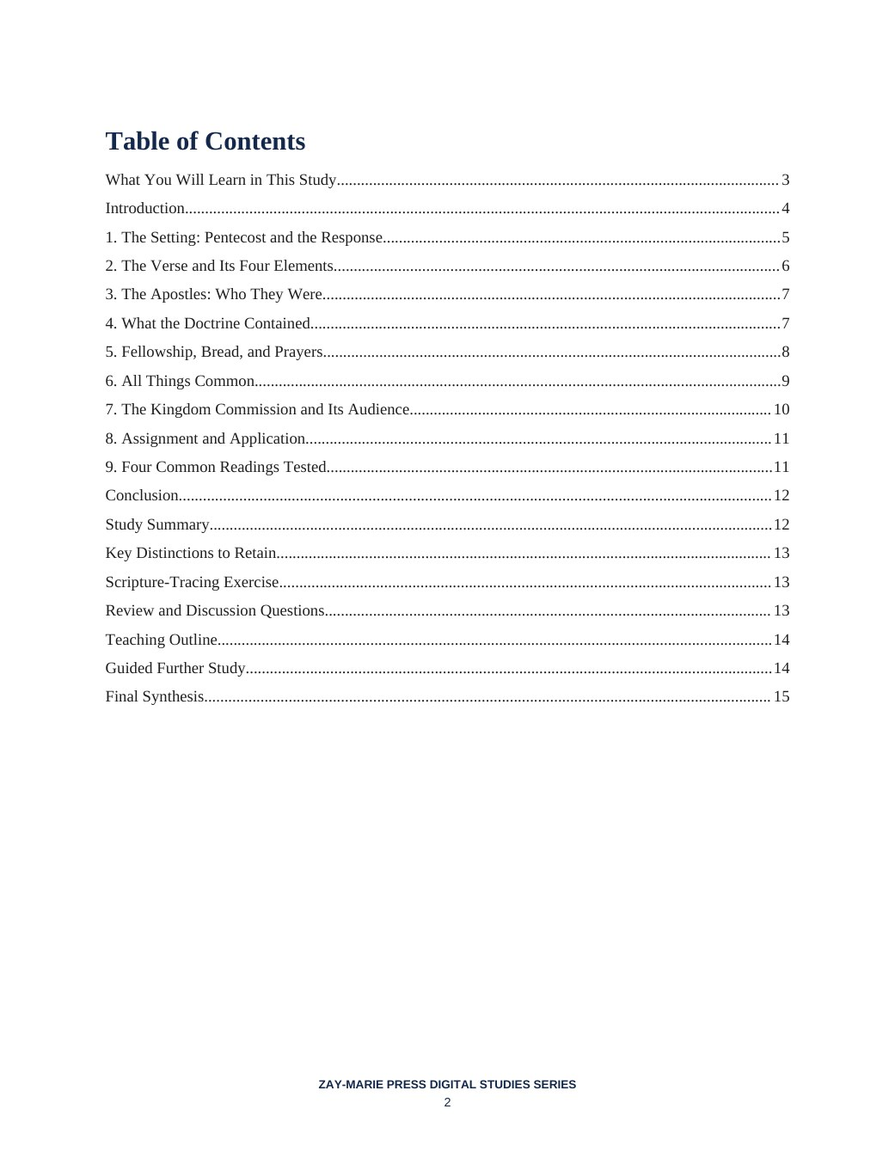
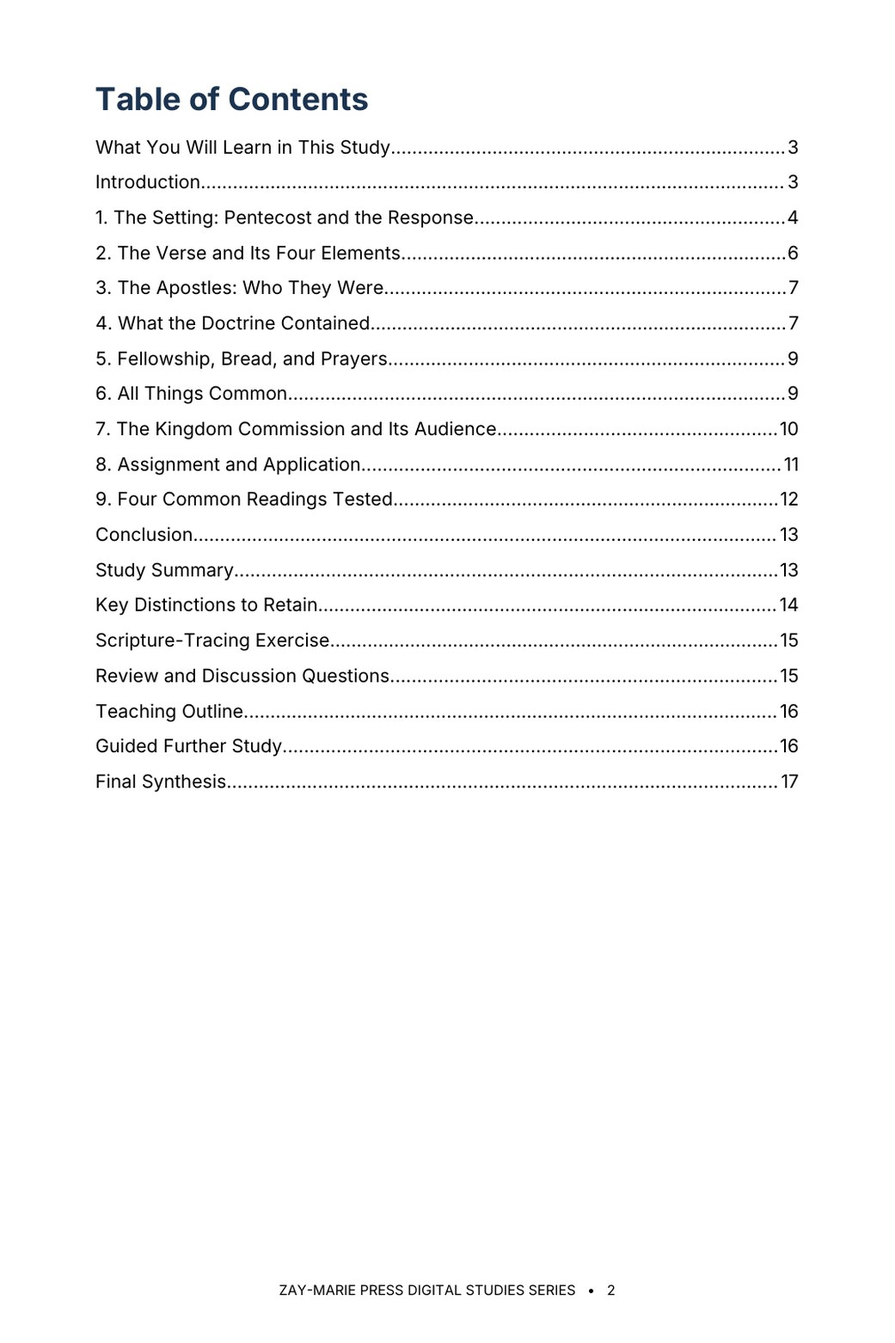
Study 65: rebuilt in Roboto at 10 pt, 17 pages; previews and trackers updated
Claude-Session: https://claude.ai/code/session_01HC7bs9KYP2scp4hCL6DkTp

Changed region(s): [[0.0922, 0.0624, 0.8915, 0.6236], [0.3074, 0.9354, 0.6455, 0.9666]]

diff --git a/study-65-acts-2-42.html b/study-65-acts-2-42.html
@@ -1,13 +1,13 @@
 <!doctype html>
-<html lang="en"><head><meta charset="utf-8"><meta name="viewport" content="width=device-width,initial-scale=1"><title>Acts 2:42 | Zay-Marie Press</title><meta name="description" content="Study 65 examines Acts 2:42 — what the Twelve taught at Jerusalem, what the converts continued in, and to whom the apostles’ doctrine belonged — and keeps it distinct from Paul’s doctrine for the Body. Preview the 16-page digital study."><link rel="stylesheet" href="styles.css?v=20260921-4"><link rel="icon" type="image/png" href="assets/zay-marie-press-favicon.png"><style>
+<html lang="en"><head><meta charset="utf-8"><meta name="viewport" content="width=device-width,initial-scale=1"><title>Acts 2:42 | Zay-Marie Press</title><meta name="description" content="Study 65 examines Acts 2:42 — what the Twelve taught at Jerusalem, what the converts continued in, and to whom the apostles’ doctrine belonged — and keeps it distinct from Paul’s doctrine for the Body. Preview the 17-page digital study."><link rel="stylesheet" href="styles.css?v=20260921-4"><link rel="icon" type="image/png" href="assets/zay-marie-press-favicon.png"><style>
 .study-detail-page{background:#fff;color:#252525}.detail-hero{background:linear-gradient(135deg,#f8f5ec,#e3ece2);padding:58px 0}.detail-hero-grid{display:grid;grid-template-columns:minmax(250px,.72fr) minmax(0,1.28fr);gap:58px;align-items:center}.detail-cover{max-width:390px;margin:auto}.detail-cover img{display:block;width:100%;height:auto;box-shadow:0 14px 36px rgba(8,45,69,.18)}.detail-hero h1{font-size:clamp(2.7rem,5vw,4.7rem);line-height:1.02;margin:8px 0 10px;color:#143823}.detail-subtitle{font-family:Georgia,serif;font-size:1.35rem;font-weight:700;color:#082d45;margin:0 0 7px}.detail-kicker{font-family:Georgia,serif;font-style:italic;font-size:1.05rem;color:#4a4a44;margin:0 0 22px}.detail-copy{font-size:1.08rem;line-height:1.65;max-width:760px}.detail-buyline{display:flex;align-items:center;gap:18px;flex-wrap:wrap;margin-top:25px}.detail-price{font-family:Georgia,serif;font-size:2rem;font-weight:700;color:#143823}.detail-format,.preview-card .page-no{font-family:Arial,sans-serif;font-size:.76rem;font-weight:700;letter-spacing:.1em;text-transform:uppercase;color:#176b3a}.detail-button{display:inline-block;background:#176b3a;color:#fff;padding:13px 22px;font-family:Arial,sans-serif;font-size:.8rem;font-weight:700;letter-spacing:.07em;text-transform:uppercase}.detail-button.pending{opacity:.72;cursor:default}.detail-section{padding:66px 0}.detail-section.soft{background:#f6f7f2}.detail-section.cream{background:#faf8f2}.detail-section h2{color:#143823;margin:6px 0 18px;font-size:clamp(2rem,3.4vw,3rem)}.detail-section .lead{max-width:920px;font-size:1.1rem;line-height:1.62}.study-distinction{max-width:920px;margin-top:28px;margin-bottom:28px;padding:26px 28px;background:#fff;border:1px solid #d8d1bf;border-left:4px solid #b8871c}.study-distinction h3{margin:0 0 10px;color:#143823}.study-distinction p{margin:0 0 14px;line-height:1.62}.study-distinction a{font-family:Arial,sans-serif;font-weight:700;color:#176b3a;text-decoration:none}.study-points{display:grid;grid-template-columns:repeat(3,1fr);gap:18px;margin-top:28px;margin-bottom:28px}.study-point,.scripture-card,.preview-card,.include-item{background:#fff;border:1px solid var(--line);text-align:left}.study-point{border-top:3px solid #176b3a;padding:22px}.study-point h3{color:#143823;margin:0 0 8px;font-size:1.2rem}.study-point p,.scripture-card p,.preview-card p,.include-item p{margin:0;line-height:1.55}.scripture-grid{display:grid;grid-template-columns:repeat(4,1fr);gap:14px;margin-top:24px;margin-bottom:24px}.scripture-card{padding:22px 20px;color:#143823}.scripture-card h3{margin:0 0 9px;font-family:Georgia,serif;font-size:1rem;line-height:1.35}.scripture-card p{font-size:.94rem;color:#45453f}.excerpt{max-width:900px;margin:28px auto;border-left:4px solid #b8871c;padding:10px 0 10px 28px}.excerpt blockquote{font-family:Georgia,serif;font-size:clamp(1.45rem,2.5vw,2rem);line-height:1.45;color:#143823;margin:0 0 16px}.excerpt p{line-height:1.6;margin:0}.preview-grid{display:grid;grid-template-columns:repeat(2,1fr);gap:20px;margin-top:28px;margin-bottom:28px}.preview-card{padding:18px;min-height:210px;box-shadow:0 7px 20px rgba(20,40,25,.05)}.preview-image-link{display:block;margin:0 0 18px}.preview-image-link img{display:block;width:100%;height:auto;border:1px solid #d8d1bf;box-shadow:0 8px 22px rgba(20,40,25,.1);transition:transform .18s ease,box-shadow .18s ease}.preview-image-link:hover img{transform:translateY(-2px);box-shadow:0 11px 28px rgba(20,40,25,.16)}.preview-card h3{color:#143823;margin:8px 0 10px}.preview-instruction{margin:10px 0 0;font-family:Arial,sans-serif;font-size:.78rem;letter-spacing:.04em;color:#5b5b55}.includes-grid{display:grid;grid-template-columns:repeat(4,1fr);gap:14px;margin-top:26px}.include-item{padding:22px 20px;color:#143823}.include-item h3{margin:0 0 9px;font-family:Arial,sans-serif;font-size:.86rem;line-height:1.35;letter-spacing:.02em}.include-item p{font-size:.94rem;color:#45453f}.final-buy{background:#082d45;color:#fff;border-top:4px solid #b8871c;padding:42px 48px;display:grid;grid-template-columns:1fr auto;gap:36px;align-items:center}.final-buy .eyebrow,.final-buy h2,.final-buy .detail-price{color:#fff}.final-buy h2{margin:7px 0 6px}.final-buy p{margin:0}.final-offer{text-align:center}.back-link{display:inline-block;margin-top:18px;color:#143823;font-family:Arial,sans-serif;font-weight:700;text-decoration:none}.preview-lightbox{position:fixed;inset:0;z-index:10000;display:none;align-items:flex-start;justify-content:center;background:rgba(8,22,16,.88);padding:24px;overflow:auto}.preview-lightbox.open{display:flex}.preview-lightbox img{display:block;width:auto;height:auto;max-width:none;box-shadow:0 18px 55px rgba(0,0,0,.4);background:#fff}.preview-lightbox-close{position:fixed;top:18px;right:24px;z-index:10001;width:46px;height:46px;border:1px solid rgba(255,255,255,.65);border-radius:50%;background:rgba(0,0,0,.55);color:#fff;font:32px/1 Arial,sans-serif;cursor:pointer}@media(max-width:900px){.detail-hero-grid{grid-template-columns:1fr;gap:34px}.detail-cover{max-width:330px}.study-points{grid-template-columns:repeat(2,1fr)}.scripture-grid,.includes-grid{grid-template-columns:repeat(2,1fr)}.preview-grid,.final-buy{grid-template-columns:1fr}.final-offer{text-align:left}}@media(max-width:560px){.detail-hero{padding:42px 0}.detail-section{padding:50px 0}.study-points,.scripture-grid,.includes-grid{grid-template-columns:1fr}.final-buy{padding:32px 24px}.detail-buyline{align-items:flex-start;flex-direction:column;gap:8px}.preview-lightbox{padding:58px 10px 24px}.preview-lightbox img{width:100%;max-width:100%;height:auto}} .detail-hero h1{font-size:clamp(2.1rem,4.2vw,3.7rem);line-height:1.08}</style></head><body class="study-detail-page">
-<header class="site-header"><div class="wrap nav"><a class="logo" href="index.html" aria-label="Zay-Marie Press home"><img src="assets/zay-marie-press-logo-hq.png" alt="Zay-Marie Press" width="420" height="238"></a><button class="menu-toggle" type="button" aria-expanded="false" aria-controls="primary-nav">MENU</button><nav aria-label="Primary navigation" class="primary-nav" id="primary-nav"><a href="index.html">HOME</a><a href="books.html">BOOKS</a><a href="series.html">SERIES</a><a class="active" aria-current="page" href="digital-studies.html">DIGITAL STUDIES</a><a href="biblical-hermeneutics-course.html">COURSE</a><a href="about.html">ABOUT</a><a href="resources.html">RESOURCES</a><a href="contact.html">CONTACT</a></nav></div></header><main><section class="detail-hero"><div class="wrap detail-hero-grid"><div class="detail-cover"><picture><source srcset="assets/study-65-cover.webp" type="image/webp"><img src="assets/study-65-cover.jpg" alt="Acts 2:42 cover"></picture></div><div><div class="eyebrow">STUDY 65 · DIGITAL STUDY</div><h1>Acts 2:42</h1><p class="detail-subtitle">The Apostles’ Doctrine</p><p class="detail-kicker">What did the Twelve teach at Jerusalem — and to whom did that teaching belong?</p><p class="detail-copy">Acts 2:42 is quoted as a list of four essentials: doctrine, fellowship, the breaking of bread, and prayer. Yet the verse is a sentence in a narrative, reporting what particular people did in a particular city immediately after a particular sermon.</p><p class="detail-copy">This study begins where Luke does: with the commission of Acts 1:8, Peter’s sermon to “all the house of Israel,” and the response. It weighs the four elements of the verse, traces what the apostles actually taught in Acts 2–5, tests the sharing of possessions against Acts 5:4, and only then asks where Paul’s doctrine for the Body stands, holding to one order throughout: meaning first, assignment second, application third.</p><div class="detail-buyline"><span class="detail-price">$5.99</span><span class="detail-format">Digital PDF · 16 Pages</span><span class="detail-button pending" aria-disabled="true">Checkout Coming Soon</span></div></div></div></section>
+<header class="site-header"><div class="wrap nav"><a class="logo" href="index.html" aria-label="Zay-Marie Press home"><img src="assets/zay-marie-press-logo-hq.png" alt="Zay-Marie Press" width="420" height="238"></a><button class="menu-toggle" type="button" aria-expanded="false" aria-controls="primary-nav">MENU</button><nav aria-label="Primary navigation" class="primary-nav" id="primary-nav"><a href="index.html">HOME</a><a href="books.html">BOOKS</a><a href="series.html">SERIES</a><a class="active" aria-current="page" href="digital-studies.html">DIGITAL STUDIES</a><a href="biblical-hermeneutics-course.html">COURSE</a><a href="about.html">ABOUT</a><a href="resources.html">RESOURCES</a><a href="contact.html">CONTACT</a></nav></div></header><main><section class="detail-hero"><div class="wrap detail-hero-grid"><div class="detail-cover"><picture><source srcset="assets/study-65-cover.webp" type="image/webp"><img src="assets/study-65-cover.jpg" alt="Acts 2:42 cover"></picture></div><div><div class="eyebrow">STUDY 65 · DIGITAL STUDY</div><h1>Acts 2:42</h1><p class="detail-subtitle">The Apostles’ Doctrine</p><p class="detail-kicker">What did the Twelve teach at Jerusalem — and to whom did that teaching belong?</p><p class="detail-copy">Acts 2:42 is quoted as a list of four essentials: doctrine, fellowship, the breaking of bread, and prayer. Yet the verse is a sentence in a narrative, reporting what particular people did in a particular city immediately after a particular sermon.</p><p class="detail-copy">This study begins where Luke does: with the commission of Acts 1:8, Peter’s sermon to “all the house of Israel,” and the response. It weighs the four elements of the verse, traces what the apostles actually taught in Acts 2–5, tests the sharing of possessions against Acts 5:4, and only then asks where Paul’s doctrine for the Body stands, holding to one order throughout: meaning first, assignment second, application third.</p><div class="detail-buyline"><span class="detail-price">$5.99</span><span class="detail-format">Digital PDF · 17 Pages</span><span class="detail-button pending" aria-disabled="true">Checkout Coming Soon</span></div></div></div></section>
 <section class="detail-section"><div class="wrap"><div class="eyebrow">ABOUT THIS STUDY</div><h2>Read the Verse in Order: Meaning, Assignment, Application</h2><p class="lead">You will read Acts 2:42 as Luke wrote it: after a commission to Israel, a sermon to “all the house of Israel,” and a response of about three thousand. You will weigh the four things the converts continued in, follow the word “doctrine” to Acts 5:28, and trace what the apostles’ recorded teaching in Acts 2–5 contained. You will test the sharing of possessions against the narrative’s own statements, then set the Twelve’s doctrine beside Paul’s before drawing any application.</p><p class="lead">Readers who already own Study 20 (Understanding Acts 2:38), Study 38 (Why Acts Is Not a Universal Experience Manual), or Study 18 (Peter and Paul: Distinct Apostolic Commissions) will recognize adjoining ground. Study 20 interprets Peter’s appeal and the baptism he commanded; this study begins after that appeal, with what the converts did next. Study 38 sets out the method for deciding when an Acts event becomes a rule; this study applies a method of that kind to a single verse and does not re-derive it. Study 18 compares the two commissions across the whole book; this study asks the narrower question of what the Twelve’s teaching consisted of. The question this study alone answers: what was “the apostles’ doctrine” of Acts 2:42, and to whom did it belong?</p>
 <div class="study-distinction"><h3>How These Studies Relate</h3><p>Study 65 reads one verse from Acts. The studies below supply the neighboring ground it deliberately does not repeat.</p><p><a href="study-20-understanding-acts-2-38.html">Study 20 — Understanding Acts 2:38</a> Read Peter’s appeal and baptism to Israel in its setting; Study 65 begins with what the converts did after that appeal.</p><p><a href="study-18-peter-and-paul-distinct-apostolic-commissions.html">Study 18 — Peter and Paul: Distinct Apostolic Commissions</a> Compare the two commissions across the book; Study 65 asks what the Twelve’s teaching contained.</p><p><a href="study-38-why-acts-is-not-a-universal-experience-manual.html">Study 38 — Why Acts Is Not a Universal Experience Manual</a> Use the wider test for when an Acts event becomes a present obligation; Study 65 applies a method of that kind to one verse.</p><p class="connection-guide-link"><a href="study-connections.html#study-65">Explore the full connection guide for Study 65 →</a></p></div>
 <div class="eyebrow">WHAT YOU’LL STUDY</div><h2>Trace the Verse Before You Conclude</h2><div class="study-points"><div class="study-point"><h3>The Setting of the Verse</h3><p>Read Acts 2:42 in its own setting by tracing the audience, the message, and the response recorded in Acts 1:8 and 2:1–41 before interpreting a single phrase of the verse.</p></div><div class="study-point"><h3>Four Things Continued In</h3><p>Weigh the four things the believers “continued steadfastly” in by following the key words — <em>didachē</em>, <em>koinōnia</em>, the breaking of bread, and the prayers — through their other uses in Acts.</p></div><div class="study-point"><h3>What the Doctrine Contained</h3><p>Trace what “the apostles’ doctrine” contained by following the apostles’ own recorded teaching in Acts 2–5, including the word “doctrine” in Acts 5:28.</p></div><div class="study-point"><h3>To Whom It Was Addressed</h3><p>Follow the audiences named across Acts 1:8, 2:5, 2:14, 2:36, and 3:25 to see to whom the teaching was addressed and under what commission.</p></div><div class="study-point"><h3>All Things Common</h3><p>Test the sharing of possessions in Acts 2:44–45, 4:32–37, and 5:1–11 against what the narrative says was required and what it says was voluntary.</p></div><div class="study-point"><h3>Testing Four Readings</h3><p>Apply a repeatable discipline for testing four common readings of the verse, and for receiving Scripture’s report of the Jerusalem church without transferring its assignment.</p></div></div>
 <div class="eyebrow">KEY SCRIPTURES</div><h2>Read the Word in Its Context</h2><div class="scripture-grid"><div class="scripture-card"><h3>Acts 1:6–8</h3><p>The Kingdom question and the commission that begins at Jerusalem.</p></div><div class="scripture-card"><h3>Acts 2:14–41</h3><p>Peter’s sermon to Judaea, Jerusalem, and Israel, and the response of the hearers.</p></div><div class="scripture-card"><h3>Acts 2:42–47</h3><p>The converts’ steadfast continuing, the signs, and the daily life at the temple and in houses.</p></div><div class="scripture-card"><h3>Acts 3:19–26</h3><p>Peter’s appeal at the temple and the covenant made with the fathers.</p></div><div class="scripture-card"><h3>Acts 4:32–5:11</h3><p>The sharing of possessions, Barnabas, and Peter’s word about the property.</p></div><div class="scripture-card"><h3>Acts 5:26–32</h3><p>The council’s charge of filling Jerusalem with the apostles’ doctrine, and the apostles’ answer.</p></div><div class="scripture-card"><h3>Galatians 2:7–9</h3><p>Paul’s account of the gospel of the circumcision and the gospel of the uncircumcision.</p></div><div class="scripture-card"><h3>Ephesians 3:1–9</h3><p>Paul’s stewardship of the mystery, revealed to him.</p></div></div>
 <div class="eyebrow">FROM THE STUDY</div><h2>Narrative, Not Mandate</h2><div class="excerpt"><blockquote>A verb in the past tense reports what people did.</blockquote><p>It becomes an obligation for another group only when Scripture itself assigns it to that group. The verse is read as a report first.</p></div>
 <div class="eyebrow">A LOOK INSIDE</div><h2>Preview the Study Before You Purchase</h2><p class="preview-instruction">Click any page to enlarge it for reading.</p><div class="preview-grid"><div class="preview-card"><a class="preview-image-link" data-preview-lightbox href="assets/study-65-page-2.jpg"><img src="assets/study-65-page-2.jpg" alt="Study 65 table of contents"></a><div class="page-no">Interior Page 2</div><h3>Table of Contents</h3><p>See the full structure and the passages examined.</p></div><div class="preview-card"><a class="preview-image-link" data-preview-lightbox href="assets/study-65-page-3.jpg"><img src="assets/study-65-page-3.jpg" alt="Study 65 learning outcomes"></a><div class="page-no">Interior Page 3</div><h3>What You Will Learn</h3><p>See the study’s scope and reading procedure.</p></div><div class="preview-card"><a class="preview-image-link" data-preview-lightbox href="assets/study-65-page-5.jpg"><img src="assets/study-65-page-5.jpg" alt="Study 65 the setting of Pentecost"></a><div class="page-no">Interior Page 5</div><h3>The Setting: Pentecost and the Response</h3><p>Read the commission, the audience, and the response before the verse itself.</p></div></div>
-<div class="eyebrow">WHAT’S INCLUDED</div><h2>A Focused Study of Acts 2:42</h2><div class="includes-grid"><div class="include-item"><h3>16-Page Digital PDF</h3><p>Approved cover and 15-page numbered interior.</p></div><div class="include-item"><h3>9 Teaching Sections</h3><p>A text-driven study from the setting of Pentecost to careful application.</p></div><div class="include-item"><h3>Callout Boxes</h3><p>Five callout boxes marking the study’s key working rules.</p></div><div class="include-item"><h3>Comparison Tables</h3><p>Setting markers, the four elements of the verse, the apostles’ recorded teaching, and four common readings.</p></div><div class="include-item"><h3>Scripture-Tracing Exercise</h3><p>Six guided traces through the passages the study relies on.</p></div><div class="include-item"><h3>Guided Further Study</h3><p>Five passage groups for deeper reading.</p></div><div class="include-item"><h3>Review Questions</h3><p>Eleven questions testing the study’s markers and method.</p></div><div class="include-item"><h3>Final Synthesis Exercise</h3><p>A written synthesis drawing the whole study together.</p></div></div>
-<div class="final-buy"><div><div class="eyebrow">STUDY 65 · DIGITAL STUDY</div><h2>Acts 2:42</h2><p>16-page digital PDF · For personal use</p></div><div class="final-offer"><div class="detail-price">$5.99</div><span class="detail-button pending" aria-disabled="true">Checkout Coming Soon</span></div></div><a class="back-link" href="digital-studies.html">← Back to All Digital Studies</a></div></section>
+<div class="eyebrow">WHAT’S INCLUDED</div><h2>A Focused Study of Acts 2:42</h2><div class="includes-grid"><div class="include-item"><h3>17-Page Digital PDF</h3><p>Approved cover and 16-page numbered interior.</p></div><div class="include-item"><h3>9 Teaching Sections</h3><p>A text-driven study from the setting of Pentecost to careful application.</p></div><div class="include-item"><h3>Callout Boxes</h3><p>Five callout boxes marking the study’s key working rules.</p></div><div class="include-item"><h3>Comparison Tables</h3><p>Setting markers, the four elements of the verse, the apostles’ recorded teaching, and four common readings.</p></div><div class="include-item"><h3>Scripture-Tracing Exercise</h3><p>Six guided traces through the passages the study relies on.</p></div><div class="include-item"><h3>Guided Further Study</h3><p>Five passage groups for deeper reading.</p></div><div class="include-item"><h3>Review Questions</h3><p>Eleven questions testing the study’s markers and method.</p></div><div class="include-item"><h3>Final Synthesis Exercise</h3><p>A written synthesis drawing the whole study together.</p></div></div>
+<div class="final-buy"><div><div class="eyebrow">STUDY 65 · DIGITAL STUDY</div><h2>Acts 2:42</h2><p>17-page digital PDF · For personal use</p></div><div class="final-offer"><div class="detail-price">$5.99</div><span class="detail-button pending" aria-disabled="true">Checkout Coming Soon</span></div></div><a class="back-link" href="digital-studies.html">← Back to All Digital Studies</a></div></section>
 </main><div class="preview-lightbox" id="preview-lightbox" role="dialog" aria-modal="true" aria-label="Expanded study preview"><button class="preview-lightbox-close" type="button" aria-label="Close preview">×</button><img id="preview-lightbox-image" alt=""></div><footer class="site-footer"><div class="wrap footer-grid"><div class="footer-about"><h3>Zay-Marie Press</h3><p class="footer-tagline"><em>Where the Bible Means What It Says.</em></p><p>Zay-Marie Press is a Christian theological publisher dedicated to producing doctrinally precise, carefully structured biblical resources that equip pastors, teachers, and serious students with clarity, depth, and Scripture-anchored truth.</p><p><a href="https://zaymariepress.com">zaymariepress.com</a><br><a href="mailto:info@zaymariepress.com">info@zaymariepress.com</a></p></div><div class="footer-column"><h3>Explore</h3><div class="footer-links-stacked"><a href="books.html">Books</a><br><a href="series.html">Series</a><br><a href="biblical-hermeneutics-course.html">Course</a><br><a href="digital-studies.html">Digital Studies</a><br><a href="resources.html">Resources</a><br><a href="bible-book-summaries.html">Bible Book Summaries</a><br><a href="doctrinal-packets.html">Doctrinal Packets</a><br><a href="historical-drift.html">Historical Drift</a><br><a href="about.html">About</a><br><a href="contact.html">Contact</a></div></div><div class="footer-column"><h3>Reader Support</h3><div class="footer-links-stacked"><a href="reader-support.html#faq">FAQ</a><br><a href="reader-support.html#shipping-returns">Shipping &amp; Returns</a><br><a href="reader-support.html#digital-downloads">Digital Downloads</a><br><a href="reader-support.html#contact-support">Contact Support</a></div></div><div class="footer-column"><h3>Acts Overlap</h3><p><strong>Acts Overlap Theology Series</strong></p><p><em>Two Distinct Streams. One Overlap.</em></p><p><a href="series.html">Series Overview</a></p></div></div><div class="wrap footer-bottom">© 2026 Zay-Marie Press. All rights reserved.</div></footer><script src="site.js"></script><script>const lightbox=document.getElementById('preview-lightbox'),lightboxImage=document.getElementById('preview-lightbox-image'),closeLightbox=()=>{lightbox.classList.remove('open');lightboxImage.src='';};document.querySelectorAll('[data-preview-lightbox]').forEach(link=>link.addEventListener('click',event=>{event.preventDefault();lightboxImage.src=link.href;lightboxImage.alt=link.querySelector('img').alt;lightbox.classList.add('open');}));document.querySelector('.preview-lightbox-close').addEventListener('click',closeLightbox);lightbox.addEventListener('click',event=>{if(event.target===lightbox)closeLightbox();});document.addEventListener('keydown',event=>{if(event.key==='Escape')closeLightbox();});</script></body></html>

diff --git a/site.js b/site.js
@@ -62,7 +62,7 @@ const resourceModal=document.querySelector('#resource-modal'), resourceModalTitl
 if(resourceModal&&resourceModalTriggers.length){const closeResourceModal=()=>{resourceModal.hidden=true;document.body.classList.remove('resource-modal-open');lastResourceTrigger?.focus();};resourceModalTriggers.forEach(trigger=>trigger.addEventListener('click',()=>{lastResourceTrigger=trigger;if(resourceModalTitle)resourceModalTitle.textContent=trigger.dataset.title||'Resource';if(resourceModalDescription)resourceModalDescription.textContent=trigger.dataset.description||'';if(resourceModalLink){resourceModalLink.href=trigger.dataset.href||'#';resourceModalLink.textContent=trigger.dataset.linkText||'OPEN RESOURCE';}resourceModal.hidden=false;document.body.classList.add('resource-modal-open');resourceModalClose?.focus();}));resourceModalClose?.addEventListener('click',closeResourceModal);resourceModal.addEventListener('click',e=>{if(e.target===resourceModal)closeResourceModal();});document.addEventListener('keydown',e=>{if(e.key==='Escape'&&!resourceModal.hidden)closeResourceModal();});}
 
 /* Display the verified final-PDF page count at the primary purchase decision point. */
-const digitalStudyPageCounts={1:17,2:19,3:16,4:18,5:16,6:16,7:14,8:13,9:16,10:20,11:15,12:15,13:19,14:15,15:15,16:16,17:18,18:18,19:16,20:16,21:17,22:16,23:14,24:16,25:17,26:16,27:16,28:16,29:19,30:17,31:18,32:19,33:18,34:16,35:16,36:16,37:16,38:16,39:16,40:16,41:16,42:17,43:17,44:19,45:19,46:20,47:19,48:18,49:20,50:19,51:20,52:19,53:19,54:17,55:20,56:20,57:20,58:19,59:20,60:15,61:16,62:18,63:17,64:17,65:16,66:16,67:16,68:16,69:16,70:16,71:16};
+const digitalStudyPageCounts={1:17,2:19,3:16,4:18,5:16,6:16,7:14,8:13,9:16,10:20,11:15,12:15,13:19,14:15,15:15,16:16,17:18,18:18,19:16,20:16,21:17,22:16,23:14,24:16,25:17,26:16,27:16,28:16,29:19,30:17,31:18,32:19,33:18,34:16,35:16,36:16,37:16,38:16,39:16,40:16,41:16,42:17,43:17,44:19,45:19,46:20,47:19,48:18,49:20,50:19,51:20,52:19,53:19,54:17,55:20,56:20,57:20,58:19,59:20,60:15,61:16,62:18,63:17,64:17,65:17,66:16,67:16,68:16,69:16,70:16,71:16};
 const digitalStudyMatch=window.location.pathname.match(/\/study-(\d+)-/i);
 const digitalStudyFormat=document.querySelector('.detail-hero .detail-format');
 if(digitalStudyMatch&&digitalStudyFormat){const studyNumber=Number(digitalStudyMatch[1]),pageCount=digitalStudyPageCounts[studyNumber];if(pageCount)digitalStudyFormat.textContent=`Digital PDF · ${pageCount} Pages`;}

diff --git a/CLAUDE.md b/CLAUDE.md
@@ -23,7 +23,7 @@ These are kept in the repo at `controlling-documents/` and are the current versi
 - As of v1.50 (publisher directive, 2026-10-03), the **What You Will Learn in This Study** section is always bulleted, never set as running paragraphs, written into this file in the same pass (Master Standard Section 3 item 4, Section 6 structure line, Section 22): a list of bullet points, each describing one process, textual marker or interpretive discipline the reader will practice (Section 17 still governs what they may say); at most one short lead-in line may stand above the bullets (for example, “By the end of this study, you should be able to:”); the Study Goal callout and the Study Outline keep their own forms. It governs every new study and every study rebuilt or retrofitted from now on; earlier studies take it when reopened or when the publisher directs. In every study check (Step 1), report whether the section is bulleted. First applied to Study 43.
 **`controlling-documents/Digital_Studies_Relationship_Map_v1.39.md`** — records each study's distinct subject, its related studies, the eight priced six-study collections, the Paul's Missionary Journeys cross-reference map, and the five primary catalog categories (currently version 1.39, covers Studies 1–71; update it as new studies publish, bump the version number, rename the file to match, and log the change in its own version-history table — mirroring the Master Standard's `_vX.Y` filename convention). Check a proposed topic against it before recommending or writing a new study. (2026-09-28: the file was missing from this repo despite this note referencing it; replaced from the publisher's copy and bumped v1.15→v1.25 in the same pass. If this note ever again points to a version not present under `controlling-documents/`, ask the publisher for a copy rather than proceeding without the check.)
 - **`controlling-documents/Digital_Studies_Category_Standard_v1.1.md`** — FINAL and binding (publisher, 2026-10-01): the rules for the five primary catalog categories (Foundations, Israel & Prophecy, Body of Christ, Passages, Doctrinal Themes), the ordered decision procedure for new studies, the precedents, all 71 fixed assignments, and the cover-label form for each category. Read it before placing any card or cover label. Do not ask the publisher where a study belongs; apply the procedure and state the result. Only the publisher changes a ruling; then bump this Standard's version and filename, re-letter the cover, and update the Relationship Map.
-- **`controlling-documents/Doctrinal_Upgrade_Retrofit_Plan_v1.86.md`** — working tracker for retrofitting Studies 1–59 to the 2026-10-02 doctrinal upgrade (Framework/PAM v1.1, Master Standard v1.40, Rules 7–17): withdrawn-wording search keys, impact tiers, waves and the per-study method. Read it before continuing the retrofit in any session; update status, bump the version and rename the file as work proceeds.
+- **`controlling-documents/Doctrinal_Upgrade_Retrofit_Plan_v1.87.md`** — working tracker for retrofitting Studies 1–59 to the 2026-10-02 doctrinal upgrade (Framework/PAM v1.1, Master Standard v1.40, Rules 7–17): withdrawn-wording search keys, impact tiers, waves and the per-study method. Read it before continuing the retrofit in any session; update status, bump the version and rename the file as work proceeds.
 - **`controlling-documents/Doctrinal_Packet_Standard_v0.3.md`** — Doctrinal Packet Standard (DRAFT; §7 approved). Governs the separate Doctrinal Packets product strand (5-page interpretive PDFs per Bible book — a print-friendly cover as page 1 plus 4 content pages, $2.99, KJV, pilot: Genesis, live at `packet-genesis.html`, hub `doctrinal-packets.html`; site pages say "5 Pages", cover styles live in `packets.css`, Old Testament blue and New Testament soft pale green, hub listed in Bible order). **Preview rule (publisher directive, 2026-09-29, packets only):** previews show about one page's worth in two cropped views (top of page 1 through the anchor texts; the chart section) — never the exegesis, architecture, Mystery contrast, logic chain, outline, or closing. Master Standard §16/§17 still govern Digital Studies. Bump the version and rename the file as the Standard is finalized.
 - **`controlling-documents/Preview_Page_Spoiler_Retrofit_Audit_v1.4.md`** — working tracker for the Studies 1–60 preview-page conclusion-spoiler retrofit (see the section below). Read it before continuing that audit in any session; update its status fields and changelog, bump the version, and rename the file to match as the audit proceeds — same `_vX.Y` convention as the other controlling documents. As of v1.1, the website-side half was DONE: all 60 studies' "What You'll Study" text was judged against the rule (methodology documented in the file) and 22 points across 11 studies were rewritten and pushed; an unrelated Study 22 content bug (Study 21's content had leaked into it) was also found and fixed. As of v1.2, the publisher supplied Studies 1–60's interior production PDFs and the interior-PDF half was also surveyed (read-only): 10 studies (37, 41, 45, 47, 48, 49, 51, 52, 53, 54) were found to have at least one interior "What You Will Learn" violation, 50 studies were confirmed compliant, and the orphaned `assets/study-45-sanctification-under-grace.docx` (removed from the repo per the publisher in v1.0) was confirmed word-for-word identical to Study 45's actual production interior PDF content. As of v1.3, the publisher supplied editable DOCX sources for all 10 violating studies; all 15 violating points were rewritten and approved, delivered as corrected final PDFs, and — along the way — a second defect was found and fixed (Studies 47 and 48's source DOCX still had an unintegrated cover placeholder despite both being long-published live with real covers; fixed by inserting the existing approved cover art). The website's "What You Will Learn" preview image (`study-NN-page-3.jpg`) was regenerated from the corrected content for all 10 studies and pushed to `main` (commit `cea1859`), verified against a fresh clone. **The website side of this audit is now fully compliant for all 60 studies.** Outstanding: the publisher's purchasable interior PDF files themselves have corrected versions delivered, but distribution to existing purchasers was decided by the publisher on 2026-09-29: silent swap of the files behind the existing downloads, no reissue notice (recorded in the v1.4 changelog entry; the product files are not in this repo).
 

diff --git a/controlling-documents/Doctrinal_Upgrade_Retrofit_Plan_v1.87.md b/controlling-documents/Doctrinal_Upgrade_Retrofit_Plan_v1.87.md
@@ -179,3 +179,4 @@ Working tracker for correcting published studies to the Framework/PAM v1.1, Mast
 - v1.84 (2026-10-03): Study 62 rebuilt in Roboto at 10 pt on the current page from the older Letter-size DOCX (no approved FINAL supplied), 18 pages (cover plus 17; was 16). Changes: What You Will Learn set as bullets under one lead-in (the closing line removed; 'assignment markers' to 'audience markers'); six callout paragraphs reduced to five (Setting Before Sentence became a run-in); 'controlling framework' to 'controlling questions'; Ephesians 2:15 given the standing 'abolished for the Body' wording and 'Brought near is not made Israel'; reader-facing passage lines for Romans 6:14 and Galatians 3:24–25, Romans 15:8 and Galatians 4:4, Romans 3:21–22 and 10:4, and a letter line for 2 Timothy 3:16; three drafted KJV tables (Matt 5:17–20; Luke 16:16–17 with Matt 24:34–35; Rom 6:14, Gal 3:24–25, Eph 2:15); Teaching Outline typed 1–7; one table spacer. Live previews re-rendered (2, 3, 4; page 5 removed); page text 18 Pages / 18-Page Digital PDF / 17-page numbered interior.
 - v1.85 (2026-10-03): Study 63 rebuilt in Roboto at 10 pt on the current page from the publisher's Sep 28 PDF (no DOCX or approved FINAL supplied; text taken from the PDF word for word), 17 pages (cover plus 16; was 16). Changes: What You Will Learn set as bullets under one lead-in (the two-sentence intro and the closing line removed; bullet 6 reworded to a process line); six callouts reduced to five (Word Evidence, Not Word Alone became a run-in); 'controlling framework' to 'controlling questions'; Teaching Outline typed 1–8; lead-in lines kept with their tables; no KJV table added (not requested). Live previews re-rendered (2, 3, 5); page text 17 Pages / 17-page digital PDF.
 - v1.86 (2026-10-03): Study 64 rebuilt in Roboto at 10 pt on the current page from the publisher's Sep 28 PDF (no DOCX or approved FINAL supplied; text taken from the PDF word for word), 17 pages (cover plus 16; was 16). Changes: What You Will Learn set as bullets under one lead-in (the two-sentence intro and the closing line removed; bullet 6 reworded to a process line); eight callouts reduced to five (Setting Before Scene, Word Evidence and A Scene at the Threshold became run-ins); reader-facing wording ('the governing framework of this series' and 'Within this series’ framework … classified there' removed; 'controlling framework' to 'controlling questions'); the Sep 28 neutral stance on the Body's presence at the supper ('neither affirms nor denies') replaced with the standing ruling that the Body of Christ does not appear in Revelation's prophetic scenes (section 5.3 and the Conclusion); 'kekleimenoi' corrected to 'keklēmenoi'; Teaching Outline typed 1–8; lead-in lines kept with their tables; cover from the repo (ISRAEL, PROPHECY & COVENANTS); no KJV table added. The guest classification (those invited to witness the wife's union) remains the publisher's 2026-09-28 directive for this study. Live previews re-rendered (2, 3, 5); page text 17 Pages / 17-page digital PDF / 16-page numbered interior.
+- v1.87 (2026-10-03): Study 65 rebuilt in Roboto at 10 pt on the current page from the publisher's PDF (no DOCX or approved FINAL supplied; text taken from the PDF word for word), 17 pages (cover plus 16; was 16). Changes: What You Will Learn set as bullets under one lead-in (closing paragraph removed; bullet 6 reworded to a process line); eight callouts reduced to five (Setting Before Verse, The Word in Its Company and The Four in Their Place became run-in paragraphs, wording unchanged); Teaching Outline numerals changed to 1–8; split Four Common Readings table merged; reader-facing wording: the 7.1 "framework of this series" sentence and "controlling framework" replaced. No withdrawn doctrinal wording found. Previews 2, 3 and 5 re-rendered; site.js and page text updated.

diff --git a/controlling-documents/Digital_Studies_PAM_Audit_v1.181.md b/controlling-documents/Digital_Studies_PAM_Audit_v1.181.md
@@ -410,3 +410,4 @@ Study 15 PDF not yet supplied. Typography: none of Studies 2, 3, 6, 8 is in EB G
 - v1.178 (2026-10-03): Study 62 rebuilt in Roboto at 10 pt, 18 pages (see Retrofit Plan v1.84).
 - v1.179 (2026-10-03): Study 63 rebuilt in Roboto at 10 pt, 17 pages (see Retrofit Plan v1.85).
 - v1.180 (2026-10-03): Study 64 rebuilt in Roboto at 10 pt, 17 pages; Body-absent-from-Revelation wording applied (see Retrofit Plan v1.86).
+- v1.181 (2026-10-03): Study 65 rebuilt in Roboto at 10 pt, 17 pages (see Retrofit Plan v1.87).
